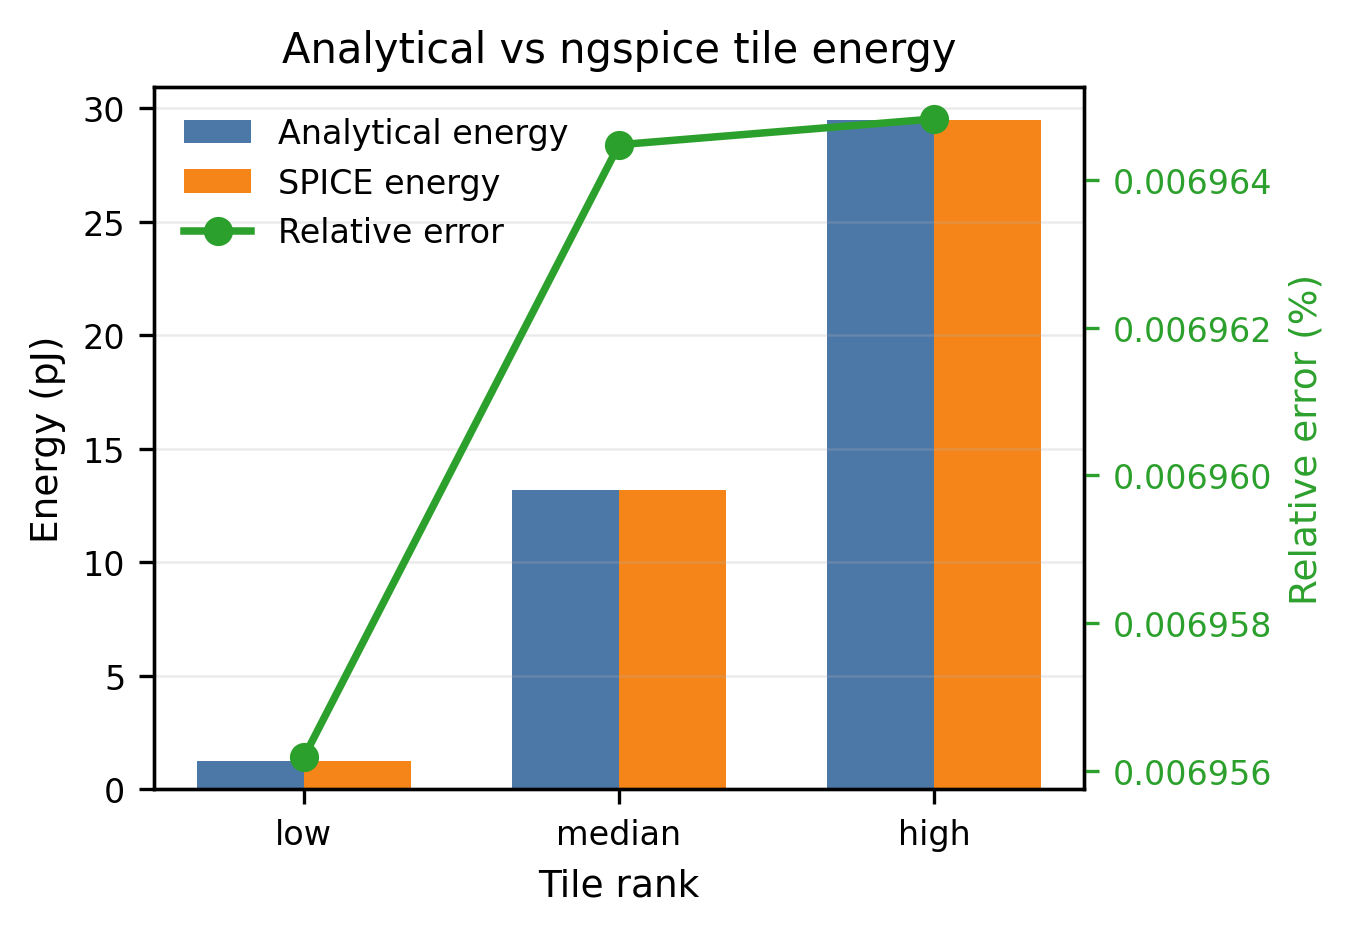
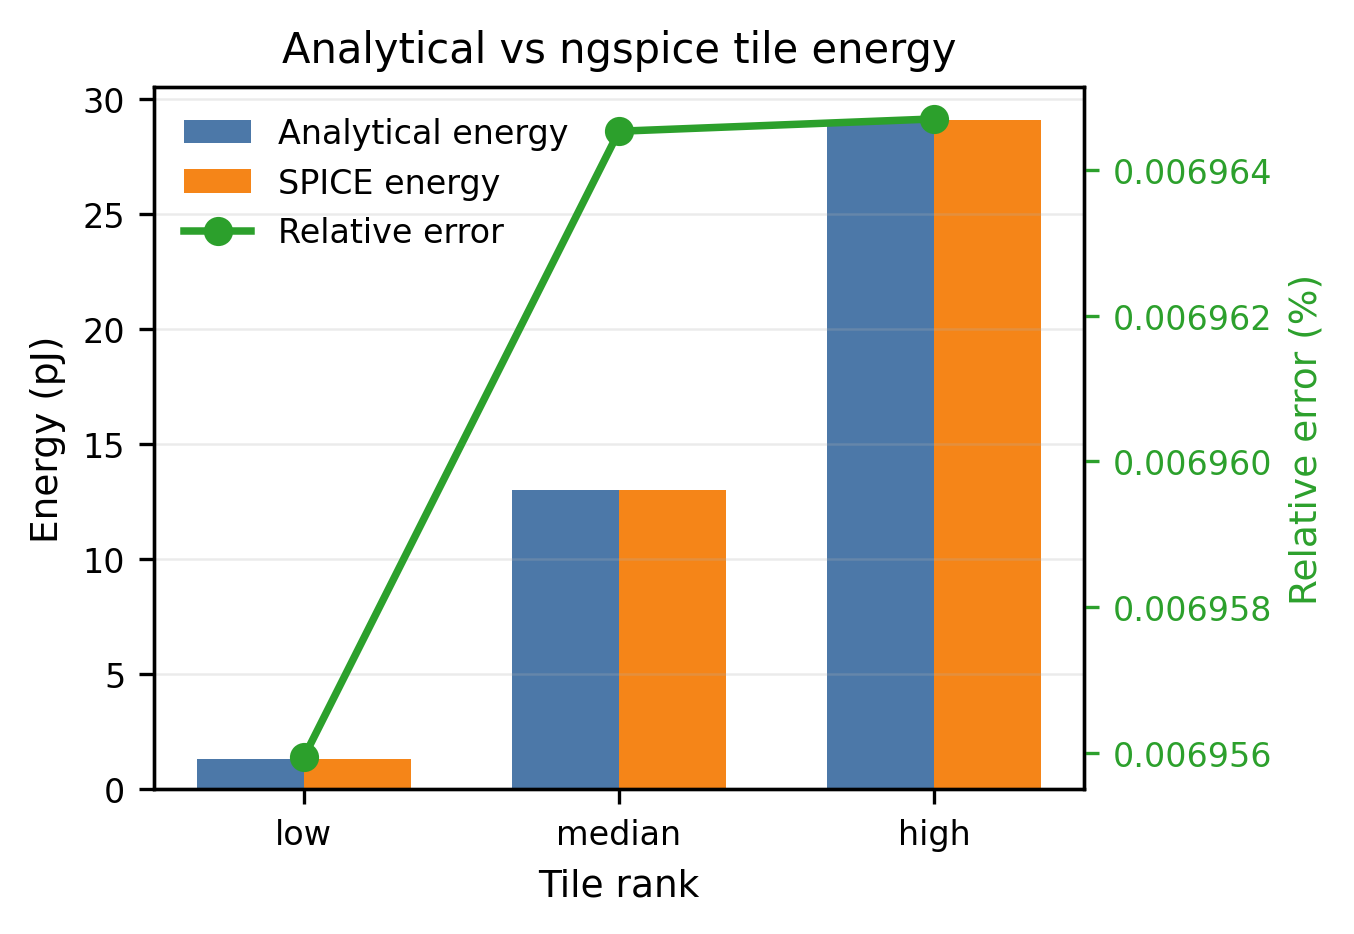
更新了图片

diff --git a/src/plot_paper_figures.py b/src/plot_paper_figures.py
@@ -9,6 +9,7 @@ from __future__ import annotations
 
 import argparse
 import csv
+import json
 from pathlib import Path
 
 import matplotlib.pyplot as plt
@@ -16,6 +17,10 @@ import numpy as np
 
 
 BASELINE = {"bleu4": 0.2464, "cider": 0.8546}
+DEFAULT_CELL_METRICS_JSON = Path("checkpoints/cmm_crosssim_cell_bits_conditions/metrics_pycoco_batchsize64.json")
+DEFAULT_ARRAY_METRICS_JSON = Path(
+    "checkpoints/cmm_crosssim_array_size_conditions_adc0/metrics_pycoco_batchsize64_array.json"
+)
 
 # 真实实验结果，来源于 log/experiment_2026-05-25_cmm_dac_ablation.md。
 DAC_SWEEP = {
@@ -110,11 +115,12 @@ def configure_style() -> None:
     )
 
 
-def save_figure(fig: plt.Figure, output_dir: Path, stem: str, formats: list[str]) -> None:
+def save_figure(fig: plt.Figure, output_dir: Path, stem: str, formats: list[str], close: bool = True) -> None:
     """保存 PNG/PDF 等多种格式。"""
     for fmt in formats:
         fig.savefig(output_dir / f"{stem}.{fmt}", bbox_inches="tight")
-    plt.close(fig)
+    if close:
+        plt.close(fig)
 
 
 def plot_dual_metric_line(
@@ -128,10 +134,12 @@ def plot_dual_metric_line(
     log_x: bool = False,
     bleu4_err: list[float] | None = None,
     cider_err: list[float] | None = None,
+    baseline: dict[str, float] | None = None,
 ) -> tuple[plt.Axes, plt.Axes]:
     """在同一子图中用双纵轴画 BLEU-4 与 CIDEr。"""
     color_bleu = "#1f77b4"
     color_cider = "#d62728"
+    baseline = baseline or BASELINE
 
     ax2 = ax.twinx()
     if log_x:
@@ -166,8 +174,8 @@ def plot_dual_metric_line(
         **line_kwargs,
     )
 
-    ax.axhline(BASELINE["bleu4"], color=color_bleu, linestyle="--", linewidth=0.9, alpha=0.45)
-    ax2.axhline(BASELINE["cider"], color=color_cider, linestyle="--", linewidth=0.9, alpha=0.45)
+    ax.axhline(baseline["bleu4"], color=color_bleu, linestyle="--", linewidth=0.9, alpha=0.45)
+    ax2.axhline(baseline["cider"], color=color_cider, linestyle="--", linewidth=0.9, alpha=0.45)
     ax.set_xlabel(xlabel)
     ax.set_ylabel("BLEU-4", color=color_bleu)
     ax2.set_ylabel("CIDEr", color=color_cider)
@@ -200,28 +208,78 @@ def make_fig4(output_dir: Path, formats: list[str]) -> None:
     save_figure(fig, output_dir, "fig4_dac_adc_precision_sensitivity", formats)
 
 
-def make_fig5(output_dir: Path, formats: list[str]) -> None:
+def read_metrics_json(path: Path) -> dict:
+    """读取 pycocoevalcap 指标 JSON。"""
+    with path.open(encoding="utf-8") as file:
+        return json.load(file)
+
+
+def extract_baseline(metrics_doc: dict) -> dict[str, float]:
+    """从 batchsize=64 指标文件中提取 baseline 虚线。"""
+    for row in metrics_doc["results"]:
+        if row["model"] == "baseline":
+            return {"bleu4": row["metrics"]["Bleu_4"], "cider": row["metrics"]["CIDEr"]}
+    raise ValueError("metrics JSON 中缺少 baseline 结果。")
+
+
+def extract_cell_bits_sweep(metrics_doc: dict) -> dict[str, list[float] | list[str]]:
+    """提取 ADC=0、batchsize=64 的 cell_bits 曲线。"""
+    rows = [row for row in metrics_doc["results"] if row["model"] != "baseline"]
+    rows.sort(key=lambda row: int(row["cell_bits"]))
+    return {
+        "bits": [int(row["cell_bits"]) for row in rows],
+        "labels": ["cont." if int(row["cell_bits"]) == 0 else str(row["cell_bits"]) for row in rows],
+        "bleu4": [row["metrics"]["Bleu_4"] for row in rows],
+        "cider": [row["metrics"]["CIDEr"] for row in rows],
+    }
+
+
+def extract_array_size_sweep(metrics_doc: dict) -> dict[str, list[float]]:
+    """提取 ADC=0、batchsize=64 的 array_size 曲线。"""
+    rows = [row for row in metrics_doc["results"] if row["model"] != "baseline"]
+    for row in rows:
+        if str(row.get("adc_resolution")) != "0":
+            raise ValueError(f"{row['model']} 的 adc_resolution 不是 0，拒绝用于 ADC=0 图。")
+    rows.sort(key=lambda row: int(row["tile_rows"]))
+    return {
+        "sizes": [int(row["tile_rows"]) for row in rows],
+        "bleu4": [row["metrics"]["Bleu_4"] for row in rows],
+        "cider": [row["metrics"]["CIDEr"] for row in rows],
+    }
+
+
+def make_fig5(output_dir: Path, formats: list[str], cell_metrics_json: Path, array_metrics_json: Path) -> None:
     """Fig. 5: cell_bits / array_size sensitivity."""
+    cell_doc = read_metrics_json(cell_metrics_json)
+    array_doc = read_metrics_json(array_metrics_json)
+    cell_sweep = extract_cell_bits_sweep(cell_doc)
+    array_sweep = extract_array_size_sweep(array_doc)
+    cell_baseline = extract_baseline(cell_doc)
+    array_baseline = extract_baseline(array_doc)
+
     fig, axes = plt.subplots(1, 2, figsize=(7.0, 2.8), constrained_layout=True)
     plot_dual_metric_line(
         axes[0],
-        CELL_BITS_SWEEP["bits"],
-        CELL_BITS_SWEEP["bleu4"],
-        CELL_BITS_SWEEP["cider"],
+        cell_sweep["bits"],
+        cell_sweep["bleu4"],
+        cell_sweep["cider"],
         "cell_bits",
         "cell_bits sweep",
-        xticklabels=CELL_BITS_SWEEP["labels"],
+        xticklabels=cell_sweep["labels"],
+        baseline=cell_baseline,
     )
     plot_dual_metric_line(
         axes[1],
-        ARRAY_SIZE_SWEEP["sizes"],
-        ARRAY_SIZE_SWEEP["bleu4"],
-        ARRAY_SIZE_SWEEP["cider"],
+        array_sweep["sizes"],
+        array_sweep["bleu4"],
+        array_sweep["cider"],
         "array_size",
         "array_size sweep",
-        xticklabels=[str(size) for size in ARRAY_SIZE_SWEEP["sizes"]],
+        xticklabels=[str(size) for size in array_sweep["sizes"]],
+        baseline=array_baseline,
     )
-    save_figure(fig, output_dir, "fig5_cell_bits_array_size_sensitivity", formats)
+    save_figure(fig, output_dir, "fig5_cell_bits_array_size_sensitivity", formats, close=False)
+    save_figure(fig, output_dir, "cell_array_sensitivity", formats)
 
 
 def make_fig6(output_dir: Path, formats: list[str]) -> None:
@@ -347,6 +405,18 @@ def parse_args() -> argparse.Namespace:
         type=Path,
         default=Path("experiments/spice/results/cmm_crosssim_read_energy/spice_validation.csv"),
     )
+    parser.add_argument(
+        "--cell-metrics-json",
+        type=Path,
+        default=DEFAULT_CELL_METRICS_JSON,
+        help="batchsize=64 cell_bits metrics JSON.",
+    )
+    parser.add_argument(
+        "--array-metrics-json",
+        type=Path,
+        default=DEFAULT_ARRAY_METRICS_JSON,
+        help="batchsize=64 ADC=0 array_size metrics JSON.",
+    )
     return parser.parse_args()
 
 
@@ -358,7 +428,7 @@ def main() -> None:
 
     configure_style()
     make_fig4(output_dir, formats)
-    make_fig5(output_dir, formats)
+    make_fig5(output_dir, formats, args.cell_metrics_json, args.array_metrics_json)
     make_fig6(output_dir, formats)
     make_fig7(output_dir, formats)
     make_fig10(output_dir, formats, args.spice_validation_csv)
